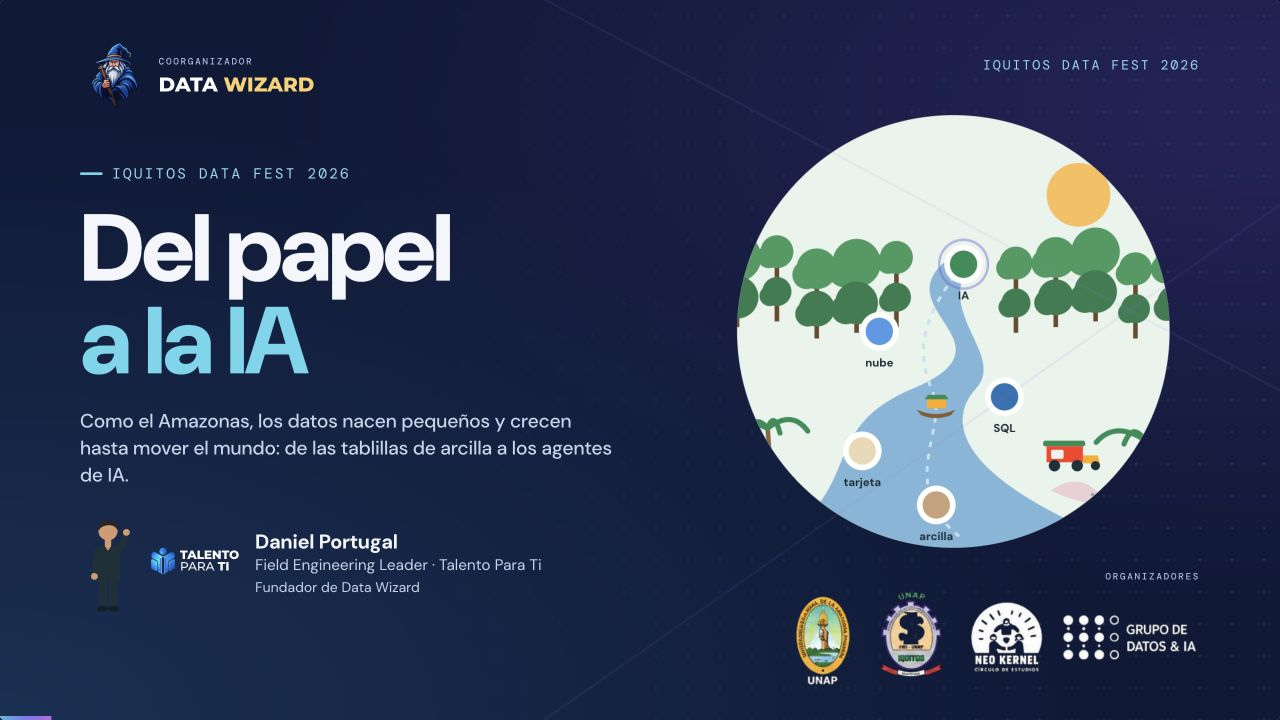
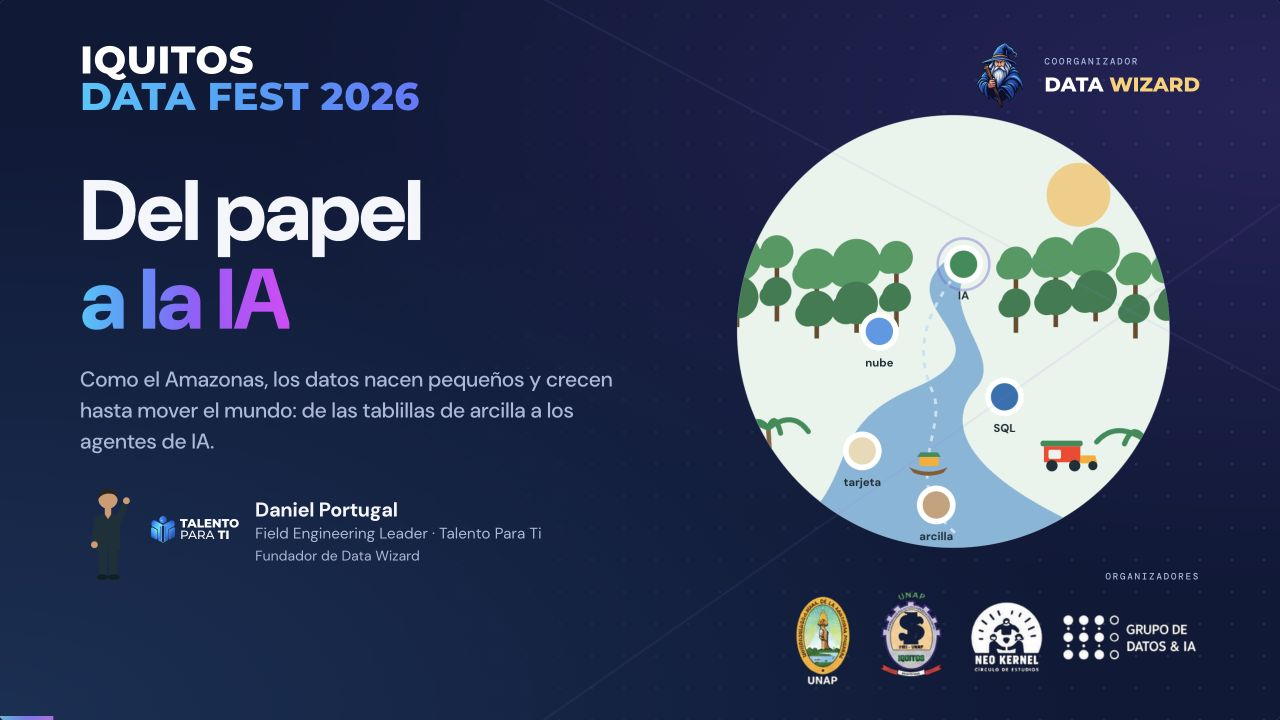
Alinea portada de Iquitos al estilo del evento

diff --git a/public/slides/del-papel-a-la-ia-iquitos/index.html b/public/slides/del-papel-a-la-ia-iquitos/index.html
@@ -4,11 +4,11 @@
 <meta charset="utf-8">
 <meta name="viewport" content="width=device-width, initial-scale=1">
 <title>Del papel a la IA · Iquitos Data Fest</title>
-<!-- v1.7 · creado 23-oct-2026 · actualizado 27-oct-2026 · Daniel Portugal, Talento Para Ti
+<!-- v1.8 · creado 23-oct-2026 · actualizado 27-oct-2026 · Daniel Portugal, Talento Para Ti
      Navegación: ← → / espacio · R repite la animación · F pantalla completa · clic en piezas para ver el detalle -->
 <link rel="preconnect" href="https://fonts.googleapis.com">
-<link href="https://fonts.googleapis.com/css2?family=Montserrat:wght@500;800&family=DM+Mono:wght@400;500&family=DM+Sans:opsz,wght@9..40,400;9..40,500;9..40,600;9..40,700;9..40,800&display=swap" rel="stylesheet">
-<link rel="stylesheet" href="deck.css?v=1.7">
+<link href="https://fonts.googleapis.com/css2?family=Montserrat:wght@500;800;900&family=DM+Mono:wght@400;500&family=DM+Sans:opsz,wght@9..40,400;9..40,500;9..40,600;9..40,700;9..40,800&display=swap" rel="stylesheet">
+<link rel="stylesheet" href="deck.css?v=1.8">
 <style>
   span[data-icon] > svg { width: 100%; height: 100%; display: block; }
   .pp { width: 110px; } .pp svg { width: 100%; height: auto; display: block; }
@@ -36,10 +36,9 @@
 <!-- ================================================================ 01 PORTADA · IQUITOS -->
 <section class="slide dark no-foot event-cover" data-wipe="#13224C">
   <div class="a event-brand-row" data-fx="down" style="--d:.1s"><div class="event-community"><img src="assets/datawizard-logo.png" alt="Data Wizard"><div><span>COORGANIZADOR</span><strong>DATA <em>WIZARD</em></strong></div></div></div>
-  <div class="a mono" data-fx="down" style="--d:.2s;position:absolute;right:120px;top:84px;font-size:20px;letter-spacing:.14em;color:#63D7EE">IQUITOS DATA FEST 2026</div>
-  <div style="position:absolute;left:120px;top:246px;width:860px">
-    <div class="kicker a" style="--d:.3s;--acc:#63D7EE">Iquitos Data Fest 2026</div>
-    <h1 class="a" data-fx="blur" style="--d:.45s;margin-top:28px;font-size:142px">Del papel<br><span style="color:#63D7EE">a la IA</span></h1>
+  <div class="a event-title" data-fx="down" style="--d:.2s"><span>IQUITOS</span><span class="event-title-gradient">DATA FEST 2026</span></div>
+  <div style="position:absolute;left:120px;top:250px;width:860px">
+    <h1 class="a" data-fx="blur" style="--d:.45s;margin-top:0;font-size:128px">Del papel<br><span class="event-title-gradient">a la IA</span></h1>
     <p class="lead a" style="--d:.8s;margin-top:30px;width:800px">Como el Amazonas, los datos nacen pequeños y crecen hasta mover el mundo: de las tablillas de arcilla a los agentes de IA.</p>
     <div class="a" style="--d:1.1s;margin-top:32px;display:flex;align-items:center;gap:22px">
       <div class="pp sm" data-person="style:short;shirt:#1B3139;prop:wave;skin:1"></div>

diff --git a/public/slides/del-papel-a-la-ia-iquitos/deck.css b/public/slides/del-papel-a-la-ia-iquitos/deck.css
@@ -377,3 +377,16 @@ svg .a[data-fx="growx"] { transform-origin: left center; }
 .speaker-qr p { font-size:22px;margin:12px 0; }
 .speaker-qr .mono { font-size:17px;color:#A7B9DC; }
 .community-link:focus-visible,.community-qr:focus-visible { outline:4px solid #63D7EE;outline-offset:8px; }
+
+/* v1.8 · 2026-10-27: portada alineada a la tipografía y paleta del evento. */
+.event-cover { --ink2:#A9B8DA; color:#E6ECFF; background:radial-gradient(ellipse at 0 100%,rgba(30,123,255,.19),transparent 65%),radial-gradient(ellipse at 100% 0,rgba(155,92,255,.14),transparent 60%),#03050F; }
+.event-cover h1 { font-family:"DM Sans",system-ui,sans-serif;font-weight:800;letter-spacing:-.025em;line-height:1.04; }
+.event-cover .event-title { position:absolute;left:120px;top:62px;font:800 58px/.95 Montserrat,"DM Sans",sans-serif;letter-spacing:.01em; }
+.event-title>span { display:block; }
+.event-title>span:first-child { color:#fff; }
+.event-cover .event-title-gradient { display:inline-block;background:linear-gradient(90deg,#12C8FC 0%,#9B5CFF 55%,#E040FB 100%);background-clip:text;-webkit-background-clip:text;color:transparent; }
+.event-cover .event-brand-row { left:auto;right:120px; }
+.event-cover .lead { color:#A9B8DA;font-size:32px;line-height:1.45; }
+.event-cover::before { background-image:radial-gradient(rgba(18,200,252,.28) 1.7px,transparent 1.7px); }
+
+.event-cover .event-title>.event-title-gradient { background-image:linear-gradient(90deg,#12C8FC,#6278FF); }
